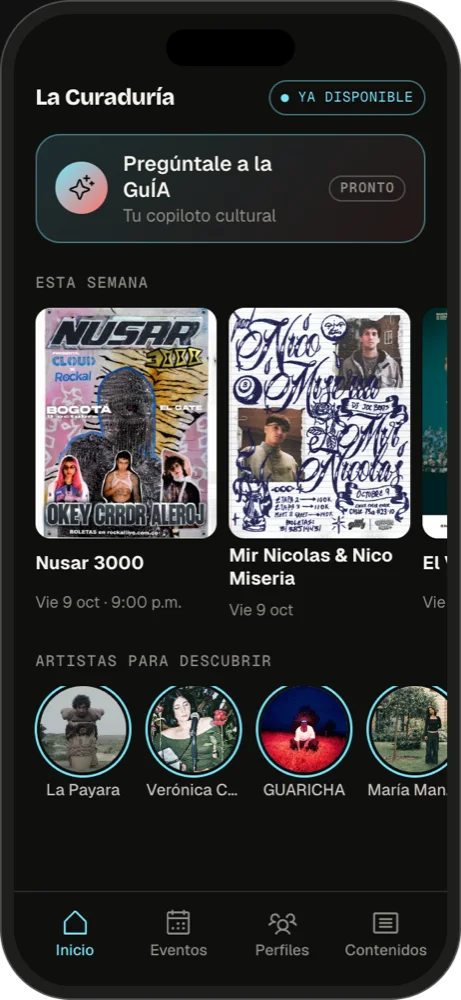
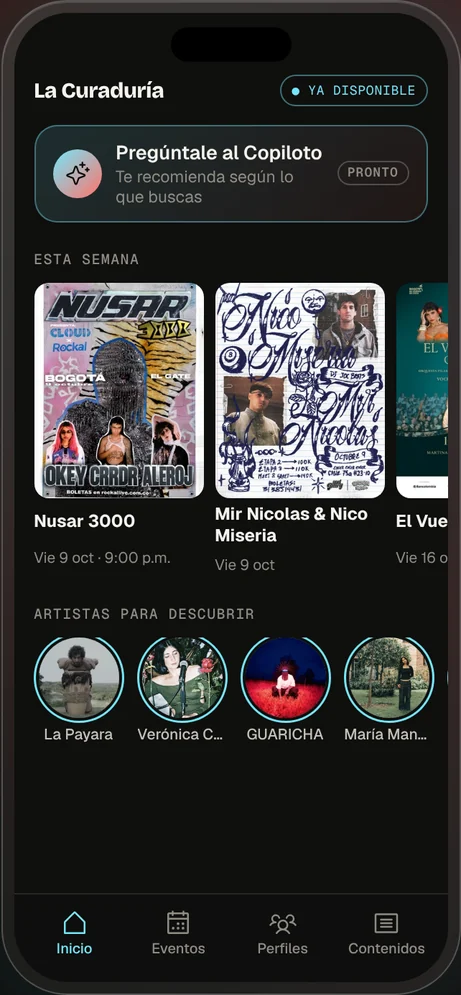
El copiloto se llama Copiloto, no GuÍA: textos, demo y capturas
Claude-Session: https://claude.ai/code/session_013ns4ecBsLFtjFuJTgQGV7z

diff --git a/index.html b/index.html
@@ -30,7 +30,7 @@
 <meta name="lc-ga4" content="">
 <meta name="lc-ads" content="">
 <script src="/estilo/medicion.js?v=20261010a"></script>
-<script src="/estilo/demo.js?v=20261010a" defer></script>
+<script src="/estilo/demo.js?v=20261010b" defer></script>
 <script src="/estilo/landing.js?v=20261010e" defer></script>
 <style>
 *{margin:0;padding:0;box-sizing:border-box;-webkit-tap-highlight-color:transparent;}
@@ -450,7 +450,7 @@ footer.site-footer{}
           <span class="t-escena-rotulo" style="--c: var(--p-coral);">La Terminal · para quienes hacen la cultura</span>
         </button>
         <button type="button" class="t-escena-tel" onclick="navTo('la-guia')" aria-label="La Guía: ver la página para quienes viven la cultura">
-          <img src="/img/escena/guia.webp" alt="La Guía en el teléfono: eventos de la semana y artistas para descubrir" width="461" height="1000">
+          <img src="/img/escena/guia.webp?v=2" alt="La Guía en el teléfono: eventos de la semana y artistas para descubrir" width="461" height="1000">
           <span class="t-escena-rotulo" style="--c: var(--p-cyan);">La Guía · para quienes viven la cultura</span>
         </button>
       </div>
@@ -503,13 +503,13 @@ footer.site-footer{}
         <p class="t-etiqueta">Producto 1 · La Guía</p>
         <h2 class="t-h2">Encuentra algo que valga la pena vivir.</h2>
         <p class="t-lead">Eventos, artistas, espacios y contenidos de la escena en un solo lugar, para explorar más allá de lo que aparece en tu feed.</p>
-        <ul class="t-producto-lista"><li><span class="t-estado-chip" data-estado="ya">Ya</span>Cartelera y mapa de la ciudad</li><li><span class="t-estado-chip" data-estado="ya">Ya</span>Directorio de artistas, espacios y colectivos</li><li><span class="t-estado-chip" data-estado="ya">Ya</span>Contenidos y reseñas</li><li><span class="t-estado-chip" data-estado="ya">Ya</span>Tu ruta cultural: guarda lo que te gusta</li><li><span class="t-estado-chip" data-estado="pronto">Pronto</span>La GuÍA, una copiloto que recomienda</li></ul>
+        <ul class="t-producto-lista"><li><span class="t-estado-chip" data-estado="ya">Ya</span>Cartelera y mapa de la ciudad</li><li><span class="t-estado-chip" data-estado="ya">Ya</span>Directorio de artistas, espacios y colectivos</li><li><span class="t-estado-chip" data-estado="ya">Ya</span>Contenidos y reseñas</li><li><span class="t-estado-chip" data-estado="ya">Ya</span>Tu ruta cultural: guarda lo que te gusta</li><li><span class="t-estado-chip" data-estado="pronto">Pronto</span>El Copiloto, que te recomienda</li></ul>
         <div class="t-ctas">
           <button type="button" class="t-btn t-btn-pri" onclick="navTo('la-guia')">Conoce La Guía <svg aria-hidden="true" focusable="false" xmlns="http://www.w3.org/2000/svg" viewBox="0 0 256 256" fill="currentColor"><path d="M221.66,133.66l-72,72a8,8,0,0,1-11.32-11.32L196.69,136H40a8,8,0,0,1,0-16H196.69L138.34,61.66a8,8,0,0,1,11.32-11.32l72,72A8,8,0,0,1,221.66,133.66Z"/></svg></button>
           <a data-evento="cta_explorar" class="t-btn t-btn-sec" href="https://lacuraduria.net" target="_blank" rel="noopener">Explorar la guía</a>
         </div>
       </div>
-      <button type="button" class="t-producto-img t-producto-tel t-rv t-rv-2" onclick="navTo('la-guia')" aria-label="Ver La Guía"><img src="/img/escena/guia.webp" alt="" width="461" height="1000" loading="lazy"></button>
+      <button type="button" class="t-producto-img t-producto-tel t-rv t-rv-2" onclick="navTo('la-guia')" aria-label="Ver La Guía"><img src="/img/escena/guia.webp?v=2" alt="" width="461" height="1000" loading="lazy"></button>
     </div>
   </section>
 
@@ -539,7 +539,7 @@ footer.site-footer{}
         <div class="t-estados-col" style="--c: var(--p-cyan);">
           <h3 class="t-h3">La Guía</h3>
           <p class="t-sus-sub">Disponible ahora</p><ul class="t-estados-lista"><li><span class="t-estado-chip" data-estado="ya">Ya</span><a href="https://lacuraduria.net/eventos" target="_blank" rel="noopener">Cartelera de eventos</a></li><li><span class="t-estado-chip" data-estado="ya">Ya</span><a href="https://lacuraduria.net/perfiles" target="_blank" rel="noopener">Directorio de artistas, espacios, colectivos y medios</a></li><li><span class="t-estado-chip" data-estado="ya">Ya</span><a href="https://lacuraduria.net/contenidos" target="_blank" rel="noopener">Contenidos y reseñas</a></li><li><span class="t-estado-chip" data-estado="ya">Ya</span><a href="https://lacuraduria.net/" target="_blank" rel="noopener">Recomendaciones editoriales de La Curaduría</a></li><li><span class="t-estado-chip" data-estado="ya">Ya</span><a href="https://lacuraduria.net/radio" target="_blank" rel="noopener">Radio en línea</a></li><li><span class="t-estado-chip" data-estado="ya">Ya</span>Seguir, guardar e interactuar</li><li><span class="t-estado-chip" data-estado="ya">Ya</span><a href="https://lacuraduria.net/perfiles" target="_blank" rel="noopener">Perfiles con enlaces, contacto, YouTube y SoundCloud</a></li><li><span class="t-estado-chip" data-estado="ya">Ya</span><a href="https://lacuraduria.net/publicar" target="_blank" rel="noopener">Publicar eventos, perfiles, contenidos y reseñas</a></li></ul>
-          <p class="t-sus-sub">Próximamente</p><ul class="t-estados-lista"><li><span class="t-estado-chip" data-estado="pronto">En construcción</span>Perfil de usuario tipo Letterboxd: tu historial y tus colecciones</li><li><span class="t-estado-chip" data-estado="pronto">Pronto</span>Copiloto cultural: la GuÍA te recomienda según lo que buscas</li><li><span class="t-estado-chip" data-estado="pronto">Pronto</span>Mapa cultural</li><li><span class="t-estado-chip" data-estado="pronto">Pronto</span>Mensajes directos</li><li><span class="t-estado-chip" data-estado="pronto">Pronto</span>Marketplace y compra de entradas</li></ul>
+          <p class="t-sus-sub">Próximamente</p><ul class="t-estados-lista"><li><span class="t-estado-chip" data-estado="pronto">En construcción</span>Perfil de usuario tipo Letterboxd: tu historial y tus colecciones</li><li><span class="t-estado-chip" data-estado="pronto">Pronto</span>Copiloto cultural: te recomienda según lo que buscas</li><li><span class="t-estado-chip" data-estado="pronto">Pronto</span>Mapa cultural</li><li><span class="t-estado-chip" data-estado="pronto">Pronto</span>Mensajes directos</li><li><span class="t-estado-chip" data-estado="pronto">Pronto</span>Marketplace y compra de entradas</li></ul>
         </div>
         <div class="t-estados-col" style="--c: var(--p-coral);">
           <h3 class="t-h3">La Terminal</h3>
@@ -679,7 +679,7 @@ footer.site-footer{}
     </div>
   </section>
 
-  <!-- La GuÍA como sección propia y los planes viejos se quitaron el 9 oct; están en el commit a07e1f4. -->
+  <!-- El Copiloto como sección propia y los planes viejos se quitaron el 9 oct; están en el commit a07e1f4. -->
 <footer class="site-footer" style="background:var(--lc-bg-raised);border-top:1px solid var(--bord);margin-top:0;">
   <div class="sf-inner">
     <div class="sf-top">
@@ -762,7 +762,7 @@ footer.site-footer{}
       <div class="t-guia-tel" data-guia-tel>
       <div class="t-guia-conmutador" role="group" aria-label="Qué ver en el teléfono">
         <button type="button" data-guia-ver="vivo" aria-pressed="true">lacuraduria.net</button>
-        <button type="button" data-guia-ver="guia" aria-pressed="false">Copiloto GuÍA · pronto</button>
+        <button type="button" data-guia-ver="guia" aria-pressed="false">Copiloto · pronto</button>
       </div>
       <!-- El teléfono con lacuraduria.net: capturas reales del sitio (10 oct), con scroll y pestañas.
            El sitio no deja mostrarse dentro de otra página, por eso no es un iframe. -->
@@ -781,7 +781,7 @@ footer.site-footer{}
         <button type="button" data-vivo-ir="inicio" aria-pressed="true">Inicio</button><button type="button" data-vivo-ir="eventos" aria-pressed="false">Eventos</button><button type="button" data-vivo-ir="perfiles" aria-pressed="false">Páginas</button><button type="button" data-vivo-ir="contenidos" aria-pressed="false">Publicaciones</button>
       </div>
       <p class="t-vivo-pie" data-vivo-pie>Así se ve hoy lacuraduria.net. Toca la pantalla para abrirla de verdad.</p>
-      <div class="t-demo t-demo-solo" id="demo-guia" data-demo role="region" aria-label="Demostración de la GuÍA en el teléfono" hidden>
+      <div class="t-demo t-demo-solo" id="demo-guia" data-demo role="region" aria-label="Demostración del Copiloto en el teléfono" hidden>
         <!-- El teléfono: La Guía -->
         <div class="t-movil">
           <div class="t-movil-pantalla">
@@ -789,7 +789,7 @@ footer.site-footer{}
 
             <section class="t-mv" data-movil="inicio">
               <div class="t-mv-scroll">
-                <button type="button" class="t-mv-preguntar" data-abrir-guia><span class="t-mv-avatar"><svg aria-hidden="true" focusable="false" xmlns="http://www.w3.org/2000/svg" viewBox="0 0 256 256" fill="currentColor"><path d="M197.58,129.06,146,110l-19-51.62a15.92,15.92,0,0,0-29.88,0L78,110l-51.62,19a15.92,15.92,0,0,0,0,29.88L78,178l19,51.62a15.92,15.92,0,0,0,29.88,0L146,178l51.62-19a15.92,15.92,0,0,0,0-29.88ZM137,164.22a8,8,0,0,0-4.74,4.74L112,223.85,91.78,169A8,8,0,0,0,87,164.22L32.15,144,87,123.78A8,8,0,0,0,91.78,119L112,64.15,132.22,119a8,8,0,0,0,4.74,4.74L191.85,144ZM144,40a8,8,0,0,1,8-8h16V16a8,8,0,0,1,16,0V32h16a8,8,0,0,1,0,16H184V64a8,8,0,0,1-16,0V48H152A8,8,0,0,1,144,40ZM248,88a8,8,0,0,1-8,8h-8v8a8,8,0,0,1-16,0V96h-8a8,8,0,0,1,0-16h8V72a8,8,0,0,1,16,0v8h8A8,8,0,0,1,248,88Z"/></svg></span><span>Pregúntale a la GuÍA<small>Tu copiloto cultural</small></span><em>Pronto</em></button>
+                <button type="button" class="t-mv-preguntar" data-abrir-guia><span class="t-mv-avatar"><svg aria-hidden="true" focusable="false" xmlns="http://www.w3.org/2000/svg" viewBox="0 0 256 256" fill="currentColor"><path d="M197.58,129.06,146,110l-19-51.62a15.92,15.92,0,0,0-29.88,0L78,110l-51.62,19a15.92,15.92,0,0,0,0,29.88L78,178l19,51.62a15.92,15.92,0,0,0,29.88,0L146,178l51.62-19a15.92,15.92,0,0,0,0-29.88ZM137,164.22a8,8,0,0,0-4.74,4.74L112,223.85,91.78,169A8,8,0,0,0,87,164.22L32.15,144,87,123.78A8,8,0,0,0,91.78,119L112,64.15,132.22,119a8,8,0,0,0,4.74,4.74L191.85,144ZM144,40a8,8,0,0,1,8-8h16V16a8,8,0,0,1,16,0V32h16a8,8,0,0,1,0,16H184V64a8,8,0,0,1-16,0V48H152A8,8,0,0,1,144,40ZM248,88a8,8,0,0,1-8,8h-8v8a8,8,0,0,1-16,0V96h-8a8,8,0,0,1,0-16h8V72a8,8,0,0,1,16,0v8h8A8,8,0,0,1,248,88Z"/></svg></span><span>Pregúntale al Copiloto<small>Te recomienda según lo que buscas</small></span><em>Pronto</em></button>
                 <h5 class="t-mv-h">Esta semana</h5>
                 <div class="t-mv-carrusel" data-mv-semana></div>
                 <h5 class="t-mv-h">Artistas para descubrir</h5>
@@ -822,7 +822,7 @@ footer.site-footer{}
             </section>
 
             <section class="t-mv" data-movil="guia" hidden>
-              <div class="t-mv-cab"><button type="button" class="t-mv-volver" data-mv-ir="inicio" aria-label="Volver al inicio"><svg aria-hidden="true" focusable="false" xmlns="http://www.w3.org/2000/svg" viewBox="0 0 256 256" fill="currentColor"><path d="M165.66,202.34a8,8,0,0,1-11.32,11.32l-80-80a8,8,0,0,1,0-11.32l80-80a8,8,0,0,1,11.32,11.32L91.31,128Z"/></svg></button><span class="t-mv-avatar"><svg aria-hidden="true" focusable="false" xmlns="http://www.w3.org/2000/svg" viewBox="0 0 256 256" fill="currentColor"><path d="M197.58,129.06,146,110l-19-51.62a15.92,15.92,0,0,0-29.88,0L78,110l-51.62,19a15.92,15.92,0,0,0,0,29.88L78,178l19,51.62a15.92,15.92,0,0,0,29.88,0L146,178l51.62-19a15.92,15.92,0,0,0,0-29.88ZM137,164.22a8,8,0,0,0-4.74,4.74L112,223.85,91.78,169A8,8,0,0,0,87,164.22L32.15,144,87,123.78A8,8,0,0,0,91.78,119L112,64.15,132.22,119a8,8,0,0,0,4.74,4.74L191.85,144ZM144,40a8,8,0,0,1,8-8h16V16a8,8,0,0,1,16,0V32h16a8,8,0,0,1,0,16H184V64a8,8,0,0,1-16,0V48H152A8,8,0,0,1,144,40ZM248,88a8,8,0,0,1-8,8h-8v8a8,8,0,0,1-16,0V96h-8a8,8,0,0,1,0-16h8V72a8,8,0,0,1,16,0v8h8A8,8,0,0,1,248,88Z"/></svg></span><div><b>GuÍA</b><small>Tu copiloto cultural</small></div></div>
+              <div class="t-mv-cab"><button type="button" class="t-mv-volver" data-mv-ir="inicio" aria-label="Volver al inicio"><svg aria-hidden="true" focusable="false" xmlns="http://www.w3.org/2000/svg" viewBox="0 0 256 256" fill="currentColor"><path d="M165.66,202.34a8,8,0,0,1-11.32,11.32l-80-80a8,8,0,0,1,0-11.32l80-80a8,8,0,0,1,11.32,11.32L91.31,128Z"/></svg></button><span class="t-mv-avatar"><svg aria-hidden="true" focusable="false" xmlns="http://www.w3.org/2000/svg" viewBox="0 0 256 256" fill="currentColor"><path d="M197.58,129.06,146,110l-19-51.62a15.92,15.92,0,0,0-29.88,0L78,110l-51.62,19a15.92,15.92,0,0,0,0,29.88L78,178l19,51.62a15.92,15.92,0,0,0,29.88,0L146,178l51.62-19a15.92,15.92,0,0,0,0-29.88ZM137,164.22a8,8,0,0,0-4.74,4.74L112,223.85,91.78,169A8,8,0,0,0,87,164.22L32.15,144,87,123.78A8,8,0,0,0,91.78,119L112,64.15,132.22,119a8,8,0,0,0,4.74,4.74L191.85,144ZM144,40a8,8,0,0,1,8-8h16V16a8,8,0,0,1,16,0V32h16a8,8,0,0,1,0,16H184V64a8,8,0,0,1-16,0V48H152A8,8,0,0,1,144,40ZM248,88a8,8,0,0,1-8,8h-8v8a8,8,0,0,1-16,0V96h-8a8,8,0,0,1,0-16h8V72a8,8,0,0,1,16,0v8h8A8,8,0,0,1,248,88Z"/></svg></span><div><b>Copiloto</b><small>De La Curaduría</small></div></div>
               <div class="t-mv-msgs" data-msgs aria-live="polite">
                 <p class="t-mv-burbuja">Hola. Cuéntame qué buscas y te recomiendo eventos, artistas y contenidos de la escena.</p>
               </div>
@@ -831,7 +831,7 @@ footer.site-footer{}
                 <button type="button" data-preg="previa">¿Dónde previar antes?</button>
                 <button type="button" data-preg="artistas">Recomiéndame artistas</button>
               </div>
-              <form class="t-mv-form" data-form><label class="t-mv-campo"><span class="t-oculto">Pregúntale a la GuÍA</span><input data-pregunta type="text" placeholder="Pregúntale a la GuÍA" autocomplete="off" maxlength="80"></label><button type="submit" aria-label="Enviar"><svg aria-hidden="true" focusable="false" xmlns="http://www.w3.org/2000/svg" viewBox="0 0 256 256" fill="currentColor"><path d="M231.87,114l-168-95.89A16,16,0,0,0,40.92,37.34L71.55,128,40.92,218.67A16,16,0,0,0,56,240a16.15,16.15,0,0,0,7.93-2.1l167.92-96.05a16,16,0,0,0,.05-27.89ZM56,224a.56.56,0,0,0,0-.12L85.74,136H144a8,8,0,0,0,0-16H85.74L56.06,32.16A.46.46,0,0,0,56,32l168,95.83Z"/></svg></button></form>
+              <form class="t-mv-form" data-form><label class="t-mv-campo"><span class="t-oculto">Pregúntale al Copiloto</span><input data-pregunta type="text" placeholder="Pregúntale al Copiloto" autocomplete="off" maxlength="80"></label><button type="submit" aria-label="Enviar"><svg aria-hidden="true" focusable="false" xmlns="http://www.w3.org/2000/svg" viewBox="0 0 256 256" fill="currentColor"><path d="M231.87,114l-168-95.89A16,16,0,0,0,40.92,37.34L71.55,128,40.92,218.67A16,16,0,0,0,56,240a16.15,16.15,0,0,0,7.93-2.1l167.92-96.05a16,16,0,0,0,.05-27.89ZM56,224a.56.56,0,0,0,0-.12L85.74,136H144a8,8,0,0,0,0-16H85.74L56.06,32.16A.46.46,0,0,0,56,32l168,95.83Z"/></svg></button></form>
             </section>
 
             <section class="t-mv t-mv-perfil" data-movil="perfil" hidden></section>
@@ -907,9 +907,9 @@ footer.site-footer{}
         <figure class="t-func-img"><img src="/img/producto/contenidos.jpg" alt="" loading="lazy" width="1400" height="498"></figure>
       </article>
       <article class="t-func t-rv">
-        <div class="t-func-texto"><span class="t-estado-chip" data-estado="pronto">Próximamente</span><h3>Pregúntale a la GuÍA</h3><p>Una copiloto que te recomienda eventos, artistas y contenidos según lo que te gusta. Ya puedes probar una muestra en el teléfono de arriba.</p>
-          <button type="button" class="t-btn t-btn-sec" onclick="if (window.lcGuiaVer) window.lcGuiaVer('guia'); document.querySelector('[data-guia-tel]').scrollIntoView({behavior:'smooth', block:'center'});">Probar la GuÍA</button></div>
-        <figure class="t-func-img t-func-tel"><img src="/img/escena/guia.webp" alt="" loading="lazy" width="461" height="1000"></figure>
+        <div class="t-func-texto"><span class="t-estado-chip" data-estado="pronto">Próximamente</span><h3>Pregúntale al Copiloto</h3><p>Un copiloto que te recomienda eventos, artistas y contenidos según lo que te gusta. Ya puedes probar una muestra en el teléfono de arriba.</p>
+          <button type="button" class="t-btn t-btn-sec" onclick="if (window.lcGuiaVer) window.lcGuiaVer('guia'); document.querySelector('[data-guia-tel]').scrollIntoView({behavior:'smooth', block:'center'});">Probar el Copiloto</button></div>
+        <figure class="t-func-img t-func-tel"><img src="/img/escena/copiloto.webp?v=1" alt="El Copiloto recomienda una fiesta de house y un lugar para previar" loading="lazy" width="461" height="995"></figure>
       </article>
       </div>
     </div>
@@ -923,7 +923,7 @@ footer.site-footer{}
         <div class="t-estados-col" style="--c: var(--p-cyan);">
           <h3 class="t-h3">La Guía</h3>
           <p class="t-sus-sub">Disponible ahora</p><ul class="t-estados-lista"><li><span class="t-estado-chip" data-estado="ya">Ya</span><a href="https://lacuraduria.net/eventos" target="_blank" rel="noopener">Cartelera de eventos</a></li><li><span class="t-estado-chip" data-estado="ya">Ya</span><a href="https://lacuraduria.net/perfiles" target="_blank" rel="noopener">Directorio de artistas, espacios, colectivos y medios</a></li><li><span class="t-estado-chip" data-estado="ya">Ya</span><a href="https://lacuraduria.net/contenidos" target="_blank" rel="noopener">Contenidos y reseñas</a></li><li><span class="t-estado-chip" data-estado="ya">Ya</span><a href="https://lacuraduria.net/" target="_blank" rel="noopener">Recomendaciones editoriales de La Curaduría</a></li><li><span class="t-estado-chip" data-estado="ya">Ya</span><a href="https://lacuraduria.net/radio" target="_blank" rel="noopener">Radio en línea</a></li><li><span class="t-estado-chip" data-estado="ya">Ya</span>Seguir, guardar e interactuar</li><li><span class="t-estado-chip" data-estado="ya">Ya</span><a href="https://lacuraduria.net/perfiles" target="_blank" rel="noopener">Perfiles con enlaces, contacto, YouTube y SoundCloud</a></li><li><span class="t-estado-chip" data-estado="ya">Ya</span><a href="https://lacuraduria.net/publicar" target="_blank" rel="noopener">Publicar eventos, perfiles, contenidos y reseñas</a></li></ul>
-          <p class="t-sus-sub">Próximamente</p><ul class="t-estados-lista"><li><span class="t-estado-chip" data-estado="pronto">En construcción</span>Perfil de usuario tipo Letterboxd: tu historial y tus colecciones</li><li><span class="t-estado-chip" data-estado="pronto">Pronto</span>Copiloto cultural: la GuÍA te recomienda según lo que buscas</li><li><span class="t-estado-chip" data-estado="pronto">Pronto</span>Mapa cultural</li><li><span class="t-estado-chip" data-estado="pronto">Pronto</span>Mensajes directos</li><li><span class="t-estado-chip" data-estado="pronto">Pronto</span>Marketplace y compra de entradas</li></ul>
+          <p class="t-sus-sub">Próximamente</p><ul class="t-estados-lista"><li><span class="t-estado-chip" data-estado="pronto">En construcción</span>Perfil de usuario tipo Letterboxd: tu historial y tus colecciones</li><li><span class="t-estado-chip" data-estado="pronto">Pronto</span>Copiloto cultural: te recomienda según lo que buscas</li><li><span class="t-estado-chip" data-estado="pronto">Pronto</span>Mapa cultural</li><li><span class="t-estado-chip" data-estado="pronto">Pronto</span>Mensajes directos</li><li><span class="t-estado-chip" data-estado="pronto">Pronto</span>Marketplace y compra de entradas</li></ul>
         </div>
       </div>
     </div>
@@ -1640,7 +1640,7 @@ window.addEventListener('load', function(){
 
             <section class="t-mv" data-movil="inicio">
               <div class="t-mv-scroll">
-                <button type="button" class="t-mv-preguntar" data-abrir-guia><span class="t-mv-avatar"><svg aria-hidden="true" focusable="false" xmlns="http://www.w3.org/2000/svg" viewBox="0 0 256 256" fill="currentColor"><path d="M197.58,129.06,146,110l-19-51.62a15.92,15.92,0,0,0-29.88,0L78,110l-51.62,19a15.92,15.92,0,0,0,0,29.88L78,178l19,51.62a15.92,15.92,0,0,0,29.88,0L146,178l51.62-19a15.92,15.92,0,0,0,0-29.88ZM137,164.22a8,8,0,0,0-4.74,4.74L112,223.85,91.78,169A8,8,0,0,0,87,164.22L32.15,144,87,123.78A8,8,0,0,0,91.78,119L112,64.15,132.22,119a8,8,0,0,0,4.74,4.74L191.85,144ZM144,40a8,8,0,0,1,8-8h16V16a8,8,0,0,1,16,0V32h16a8,8,0,0,1,0,16H184V64a8,8,0,0,1-16,0V48H152A8,8,0,0,1,144,40ZM248,88a8,8,0,0,1-8,8h-8v8a8,8,0,0,1-16,0V96h-8a8,8,0,0,1,0-16h8V72a8,8,0,0,1,16,0v8h8A8,8,0,0,1,248,88Z"/></svg></span><span>Pregúntale a la GuÍA<small>Tu copiloto cultural</small></span><em>Pronto</em></button>
+                <button type="button" class="t-mv-preguntar" data-abrir-guia><span class="t-mv-avatar"><svg aria-hidden="true" focusable="false" xmlns="http://www.w3.org/2000/svg" viewBox="0 0 256 256" fill="currentColor"><path d="M197.58,129.06,146,110l-19-51.62a15.92,15.92,0,0,0-29.88,0L78,110l-51.62,19a15.92,15.92,0,0,0,0,29.88L78,178l19,51.62a15.92,15.92,0,0,0,29.88,0L146,178l51.62-19a15.92,15.92,0,0,0,0-29.88ZM137,164.22a8,8,0,0,0-4.74,4.74L112,223.85,91.78,169A8,8,0,0,0,87,164.22L32.15,144,87,123.78A8,8,0,0,0,91.78,119L112,64.15,132.22,119a8,8,0,0,0,4.74,4.74L191.85,144ZM144,40a8,8,0,0,1,8-8h16V16a8,8,0,0,1,16,0V32h16a8,8,0,0,1,0,16H184V64a8,8,0,0,1-16,0V48H152A8,8,0,0,1,144,40ZM248,88a8,8,0,0,1-8,8h-8v8a8,8,0,0,1-16,0V96h-8a8,8,0,0,1,0-16h8V72a8,8,0,0,1,16,0v8h8A8,8,0,0,1,248,88Z"/></svg></span><span>Pregúntale al Copiloto<small>Te recomienda según lo que buscas</small></span><em>Pronto</em></button>
                 <h5 class="t-mv-h">Esta semana</h5>
                 <div class="t-mv-carrusel" data-mv-semana></div>
                 <h5 class="t-mv-h">Artistas para descubrir</h5>
@@ -1673,7 +1673,7 @@ window.addEventListener('load', function(){
             </section>
 
             <section class="t-mv" data-movil="guia" hidden>
-              <div class="t-mv-cab"><button type="button" class="t-mv-volver" data-mv-ir="inicio" aria-label="Volver al inicio"><svg aria-hidden="true" focusable="false" xmlns="http://www.w3.org/2000/svg" viewBox="0 0 256 256" fill="currentColor"><path d="M165.66,202.34a8,8,0,0,1-11.32,11.32l-80-80a8,8,0,0,1,0-11.32l80-80a8,8,0,0,1,11.32,11.32L91.31,128Z"/></svg></button><span class="t-mv-avatar"><svg aria-hidden="true" focusable="false" xmlns="http://www.w3.org/2000/svg" viewBox="0 0 256 256" fill="currentColor"><path d="M197.58,129.06,146,110l-19-51.62a15.92,15.92,0,0,0-29.88,0L78,110l-51.62,19a15.92,15.92,0,0,0,0,29.88L78,178l19,51.62a15.92,15.92,0,0,0,29.88,0L146,178l51.62-19a15.92,15.92,0,0,0,0-29.88ZM137,164.22a8,8,0,0,0-4.74,4.74L112,223.85,91.78,169A8,8,0,0,0,87,164.22L32.15,144,87,123.78A8,8,0,0,0,91.78,119L112,64.15,132.22,119a8,8,0,0,0,4.74,4.74L191.85,144ZM144,40a8,8,0,0,1,8-8h16V16a8,8,0,0,1,16,0V32h16a8,8,0,0,1,0,16H184V64a8,8,0,0,1-16,0V48H152A8,8,0,0,1,144,40ZM248,88a8,8,0,0,1-8,8h-8v8a8,8,0,0,1-16,0V96h-8a8,8,0,0,1,0-16h8V72a8,8,0,0,1,16,0v8h8A8,8,0,0,1,248,88Z"/></svg></span><div><b>GuÍA</b><small>Tu copiloto cultural</small></div></div>
+              <div class="t-mv-cab"><button type="button" class="t-mv-volver" data-mv-ir="inicio" aria-label="Volver al inicio"><svg aria-hidden="true" focusable="false" xmlns="http://www.w3.org/2000/svg" viewBox="0 0 256 256" fill="currentColor"><path d="M165.66,202.34a8,8,0,0,1-11.32,11.32l-80-80a8,8,0,0,1,0-11.32l80-80a8,8,0,0,1,11.32,11.32L91.31,128Z"/></svg></button><span class="t-mv-avatar"><svg aria-hidden="true" focusable="false" xmlns="http://www.w3.org/2000/svg" viewBox="0 0 256 256" fill="currentColor"><path d="M197.58,129.06,146,110l-19-51.62a15.92,15.92,0,0,0-29.88,0L78,110l-51.62,19a15.92,15.92,0,0,0,0,29.88L78,178l19,51.62a15.92,15.92,0,0,0,29.88,0L146,178l51.62-19a15.92,15.92,0,0,0,0-29.88ZM137,164.22a8,8,0,0,0-4.74,4.74L112,223.85,91.78,169A8,8,0,0,0,87,164.22L32.15,144,87,123.78A8,8,0,0,0,91.78,119L112,64.15,132.22,119a8,8,0,0,0,4.74,4.74L191.85,144ZM144,40a8,8,0,0,1,8-8h16V16a8,8,0,0,1,16,0V32h16a8,8,0,0,1,0,16H184V64a8,8,0,0,1-16,0V48H152A8,8,0,0,1,144,40ZM248,88a8,8,0,0,1-8,8h-8v8a8,8,0,0,1-16,0V96h-8a8,8,0,0,1,0-16h8V72a8,8,0,0,1,16,0v8h8A8,8,0,0,1,248,88Z"/></svg></span><div><b>Copiloto</b><small>De La Curaduría</small></div></div>
               <div class="t-mv-msgs" data-msgs aria-live="polite">
                 <p class="t-mv-burbuja">Hola. Cuéntame qué buscas y te recomiendo eventos, artistas y contenidos de la escena.</p>
               </div>
@@ -1682,7 +1682,7 @@ window.addEventListener('load', function(){
                 <button type="button" data-preg="artistas">Recomiéndame artistas</button>
                 <button type="button" data-preg="escuchar">Algo para escuchar</button>
               </div>
-              <form class="t-mv-form" data-form><label class="t-mv-campo"><span class="t-oculto">Pregúntale a la GuÍA</span><input data-pregunta type="text" placeholder="Pregúntale a la GuÍA" autocomplete="off" maxlength="80"></label><button type="submit" aria-label="Enviar"><svg aria-hidden="true" focusable="false" xmlns="http://www.w3.org/2000/svg" viewBox="0 0 256 256" fill="currentColor"><path d="M231.87,114l-168-95.89A16,16,0,0,0,40.92,37.34L71.55,128,40.92,218.67A16,16,0,0,0,56,240a16.15,16.15,0,0,0,7.93-2.1l167.92-96.05a16,16,0,0,0,.05-27.89ZM56,224a.56.56,0,0,0,0-.12L85.74,136H144a8,8,0,0,0,0-16H85.74L56.06,32.16A.46.46,0,0,0,56,32l168,95.83Z"/></svg></button></form>
+              <form class="t-mv-form" data-form><label class="t-mv-campo"><span class="t-oculto">Pregúntale al Copiloto</span><input data-pregunta type="text" placeholder="Pregúntale al Copiloto" autocomplete="off" maxlength="80"></label><button type="submit" aria-label="Enviar"><svg aria-hidden="true" focusable="false" xmlns="http://www.w3.org/2000/svg" viewBox="0 0 256 256" fill="currentColor"><path d="M231.87,114l-168-95.89A16,16,0,0,0,40.92,37.34L71.55,128,40.92,218.67A16,16,0,0,0,56,240a16.15,16.15,0,0,0,7.93-2.1l167.92-96.05a16,16,0,0,0,.05-27.89ZM56,224a.56.56,0,0,0,0-.12L85.74,136H144a8,8,0,0,0,0-16H85.74L56.06,32.16A.46.46,0,0,0,56,32l168,95.83Z"/></svg></button></form>
             </section>
 
             <section class="t-mv t-mv-perfil" data-movil="perfil" hidden></section>

diff --git a/estilo/demo.js b/estilo/demo.js
@@ -1,6 +1,6 @@
 /* La Curaduría · la demo del hero (v4, 8 oct 2026).
    Computador: La Terminal con sus diez módulos y su estado (ya, beta, próximamente).
-   Teléfono: La Guía (inicio, eventos, perfiles, contenidos), la GuÍA y el perfil de un artista.
+   Teléfono: La Guía (inicio, eventos, perfiles, contenidos), el Copiloto y el perfil de un artista.
    Las pantallas están conectadas, como en la plataforma:
    - publicar un evento o un contenido en La Terminal lo muestra La Guía;
    - la frase del perfil que se edita en La Terminal cambia el perfil del teléfono;
@@ -237,7 +237,7 @@ function montarDemo(demo) {
     { titulo: 'Klande Beats: el dancehall como memoria de la pista bogotana', tipo: 'Crónica sonora', img: 'co-klande.jpg', w: 457, h: 480, slug: 'klande-beats-el-dancehall-como-memoria-de-la-pista-bogotana-7bzkyc' },
     { titulo: 'Hard Trance Vol. 1 by paradoxx.raw', tipo: 'Audio', img: 'co-trance.jpg', w: 270, h: 480, slug: 'hard-trance-vol-1-by-paradoxx-raw-902ucb' }
   ];
-  // Qué de La Guía ya existe: todo menos la GuÍA (el chat).
+  // Qué de La Guía ya existe: todo menos el Copiloto (el chat).
   var ESTADO_MOVIL = { inicio: 'ya', eventos: 'ya', perfiles: 'ya', contenidos: 'ya', perfil: 'ya', guia: 'pronto' };
 
   var chip = $('[data-mv-chip]'), vistaPerfil = $('[data-movil="perfil"]'), perfilAbierto = null;
@@ -309,8 +309,8 @@ function montarDemo(demo) {
   })();
   pintarListas();
 
-  // La GuÍA (próximamente): responde a las sugerencias
-  // Lugares y planes de ejemplo para la conversación de la GuÍA (inventados: la GuÍA aún no existe).
+  // El Copiloto (próximamente): responde a las sugerencias
+  // Lugares y planes de ejemplo para la conversación de el Copiloto (inventados: el Copiloto aún no existe).
   var LUGARES = {
     tunda: { tipo: 'Fiesta · House', c: 'var(--p-coral)', ini: 'T', nombre: 'Tunda', detalle: 'Sáb · 10 p.m. · colectivo que cambia de locación' },
     discos: { tipo: 'Previa · Disquería y café', c: 'var(--p-green)', ini: 'DE', nombre: 'Discos del Espacio', detalle: 'Sáb · desde las 6 p.m. · discos, café, comida y house' }
@@ -349,7 +349,7 @@ function montarDemo(demo) {
     msgs.appendChild(el('p', 't-mv-burbuja t-mv-yo', texto)); bajar();
     var r = RESPUESTAS[clave];
     if (r) responder(r[0], r[1]);
-    else responder('En esta demo respondo a las sugerencias de abajo. Cuando salga, la GuÍA buscará en toda la cartelera, el directorio y los contenidos.');
+    else responder('En esta demo respondo a las sugerencias de abajo. Cuando salga, el Copiloto buscará en toda la cartelera, el directorio y los contenidos.');
   }
   function adivinar(t) {
     t = t.toLowerCase();
@@ -360,7 +360,7 @@ function montarDemo(demo) {
     if (/escuchar|música|musica|set|álbum|album|sonido/.test(t)) return 'escuchar';
     return null;
   }
-  // La conversación de ejemplo se escribe sola la primera vez que se abre la GuÍA.
+  // La conversación de ejemplo se escribe sola la primera vez que se abre el Copiloto.
   var guionHecho = false;
   function guion() {
     mostrarMovil('guia');

diff --git a/estilo/landing.css b/estilo/landing.css
@@ -392,7 +392,7 @@ html[data-tema] .guia-chip { font-family: var(--lc-font-body); font-size: 13px; 
 html[data-tema] .guia-chip:hover { color: var(--t-text); border-color: var(--t-text-3); }
 html[data-tema] .guia-dot { background: var(--t-text-3); }
 /* La conversación se escribe sola cuando el chat entra en pantalla:
-   cuenta en tres pasos lo que hace la GuÍA. */
+   cuenta en tres pasos lo que hace el Copiloto. */
 @media (prefers-reduced-motion: no-preference) {
   .t-chat .guia-msgs > * { opacity: 0; transform: translateY(10px); }
   .t-chat.t-dentro .guia-msgs > * { animation: t-sube .6s var(--t-ease) forwards; }
@@ -1045,7 +1045,7 @@ html[data-tema] .mprev-btn-pay { border-radius: 999px; }
 .t-guia-hero-texto .t-demo-leyenda { margin-top: 32px; }
 .t-demo.t-demo-solo { display: flex; justify-content: center; grid-template-columns: none; }
 .t-demo-solo .t-movil, .t-movil.t-vivo { grid-column: auto; grid-row: auto; margin: 0; max-width: 320px; width: 100%; justify-self: auto; }
-/* El teléfono de La Guía: lacuraduria.net en vivo, con la GuÍA (pronto) al lado */
+/* El teléfono de La Guía: lacuraduria.net en vivo, con el Copiloto (pronto) al lado */
 .t-guia-tel { display: flex; flex-direction: column; align-items: center; gap: 16px; }
 .t-guia-tel [hidden] { display: none !important; }
 .t-guia-conmutador { display: inline-flex; gap: 4px; padding: 4px; border-radius: 999px; border: 1px solid var(--g-borde-2); background: var(--g-luz), rgba(28, 28, 26, .6); -webkit-backdrop-filter: var(--g-blur); backdrop-filter: var(--g-blur); }
@@ -1121,7 +1121,7 @@ html[data-tema] .mprev-btn-pay { border-radius: 999px; }
 .t-pilar button:focus-visible { outline: 2px solid var(--p-cyan); outline-offset: 2px; }
 .t-fun-aliados { padding-inline: 0; }
 
-/* El campo de la GuÍA en el teléfono ya no lleva id */
+/* El campo de el Copiloto en el teléfono ya no lleva id */
 .t-mv-campo { flex: 1; min-width: 0; display: flex; }
 .t-mv-campo input { width: 100%; }
 

diff --git a/estilo/demo.css b/estilo/demo.css
@@ -1,6 +1,6 @@
 /* ============================================================
    La Curaduría · la demo del hero (8 oct 2026)
-   El computador muestra La Terminal y el teléfono la GuÍA y un perfil.
+   El computador muestra La Terminal y el teléfono el Copiloto y un perfil.
    Va después de landing.css y usa sus variables (--t-*, --g-*).
 
    El computador se dibuja en un lienzo fijo de 1000 × 640 que
@@ -433,7 +433,7 @@
   .t-demo-leyenda { margin-top: 24px; }
 }
 
-/* ── Teléfonos: primero la GuÍA; Pro se ve en pequeño, con sus funciones afuera ── */
+/* ── Teléfonos: primero el Copiloto; Pro se ve en pequeño, con sus funciones afuera ── */
 @media (max-width: 900px) {
   .t-demo { display: flex; flex-direction: column; align-items: stretch; gap: 14px; }
   .t-movil { order: -1; align-self: center; max-width: 300px; margin: 0 0 22px; }
@@ -465,7 +465,7 @@
   .t-ventana { background: var(--t-surf-2); }
 }
 
-/* Tarjetas de lugares en la conversación de la GuÍA (sin foto: iniciales en color) */
+/* Tarjetas de lugares en la conversación de el Copiloto (sin foto: iniciales en color) */
 .t-mv-ini { display: grid; place-items: center; width: 50px; height: 50px; flex: none; border-radius: 8px; font: 800 15px/1 var(--lc-font-display); color: #0C0C0B; background: var(--c); }
 .t-mv-lugar { cursor: default; }
 /* En La Guía, el teléfono del copiloto se ve como un chat: sin las pestañas de abajo */

diff --git a/estilo/LEEME.md b/estilo/LEEME.md
@@ -18,7 +18,7 @@
 >   - `api/webhook-mp.js` valida la firma, marca `confirmado_at` y manda el correo de confirmación una sola vez (con Brevo si existe `BREVO_API_KEY`, o con Resend si existe `RESEND_API_KEY`), y el aviso de compra al equipo (`CORREO_AVISOS`).
 >   - Lo compartido vive en `api/_lib/preventa.js`. La tabla real es `preventa_compradores`; `supabase-schema.sql` describe otra, vieja, que no existe.
 >   - La política de reembolso está en `#t-fun-reembolso`. Es una propuesta: hay que revisarla con abogado.
-> - **Teléfono de La Guía (10 oct):** el hero de `#pg-la-guia` muestra lacuraduria.net con capturas reales y largas (`img/producto/guia-*.jpg`, 390 px de ancho), que se recorren con scroll dentro del teléfono. La barra de abajo (`guia-barra.png`) y los botones Inicio · Eventos · Páginas · Publicaciones cambian de página; tocar la pantalla abre esa página en el sitio real. No es un iframe porque lacuraduria.net lo prohíbe (`frame-ancestors 'none'` y `X-Frame-Options: SAMEORIGIN`); si la webapp permite `frame-ancestors https://lacuraduria.com`, se puede volver a un iframe navegable. «GuÍA · pronto» muestra la demo inventada del chat. Para repetir las capturas: Chrome sin ventana a 390×844, pantalla por pantalla (cuatro de alto), ocultando lo fijo, y se unen.
+> - **Teléfono de La Guía (10 oct):** el hero de `#pg-la-guia` muestra lacuraduria.net con capturas reales y largas (`img/producto/guia-*.jpg`, 390 px de ancho), que se recorren con scroll dentro del teléfono. La barra de abajo (`guia-barra.png`) y los botones Inicio · Eventos · Páginas · Publicaciones cambian de página; tocar la pantalla abre esa página en el sitio real. No es un iframe porque lacuraduria.net lo prohíbe (`frame-ancestors 'none'` y `X-Frame-Options: SAMEORIGIN`); si la webapp permite `frame-ancestors https://lacuraduria.com`, se puede volver a un iframe navegable. «Copiloto · pronto» muestra la demo inventada del chat. Para repetir las capturas: Chrome sin ventana a 390×844, pantalla por pantalla (cuatro de alto), ocultando lo fijo, y se unen.
 > - **Planes en la portada (10 oct):** `#planes`, antes de la tienda: Gratis ($0) y Pro · Fundador ($200.000, 50 cupos) con insignia, betas antes que nadie, beneficios desde hoy y «parte del movimiento». «Reservar cupo» abre el mismo cobro (`prevSelectPlan('fundador')`); el modal se mueve al `body` para abrir desde cualquier pantalla.
 > - **`estilo/demo.js`** monta cada `[data-demo]`. La demo solo de teléfono no tiene el computador y lo que depende de él no corre.
 
@@ -27,7 +27,7 @@ Rediseño de la portada de la landing (`index.html`, pantalla `#pg-home`) hecho 
 | Archivo | Qué es |
 |---|---|
 | `estilo/landing.css` | Toda la dirección: paleta, tipografías, botones, barra y las ocho secciones. También redefine los valores de `ds/tokens.css`, para que las pantallas internas hereden lo mismo sin tocar su HTML. |
-| `estilo/demo.css`, `estilo/demo.js` | La demo del hero (8 oct): Pro en el computador y la GuÍA con un perfil en el teléfono, conectados. |
+| `estilo/demo.css`, `estilo/demo.js` | La demo del hero (8 oct): Pro en el computador y el Copiloto con un perfil en el teléfono, conectados. |
 | `img/demo/` | Fotos de artistas y flyers de eventos reales de lacuraduria.net que usa la demo. |
 | `estilo/landing.js` | Revelado al entrar en pantalla, logo de la barra y pestañas de «Para quién». No escucha el scroll. |
 | `fuentes/` | Bricolage Grotesque, Geist y Geist Mono (variables, subconjunto latino), alojadas aquí y no en Google Fonts. |
@@ -52,7 +52,7 @@ Rediseño de la portada de la landing (`index.html`, pantalla `#pg-home`) hecho 
      - **Beta, febrero de 2027:** gestor de contenidos, entrenamiento SEO, ENLACE academia, CRM.
      - **Próximamente:** convocatorias, perfil PRO, cobro, analítica.
      - Cada módulo abre una ventana con su estado, qué hace y algo para probar.
-   - **Teléfono, La Guía:** pestañas de inicio, eventos, perfiles y contenidos (ya disponibles), más la entrada a la GuÍA (próximamente) y el perfil del artista con su press kit.
+   - **Teléfono, La Guía:** pestañas de inicio, eventos, perfiles y contenidos (ya disponibles), más la entrada a el Copiloto (próximamente) y el perfil del artista con su press kit.
    - **Conexiones entre las pantallas:** publicar un evento o un contenido cambia La Guía; la frase del perfil se ve en el teléfono; pedir booking llega al CRM.
    - **Colores de estado:** cian para lo disponible (el segundo color de la marca), amarillo para las betas y gris para lo que viene.
    - **Datos reales** de lacuraduria.net en `img/demo/`, incluidos cuatro contenidos (`co-*.jpg`). En Analítica los datos son de ejemplo y la vista lo dice.
@@ -73,7 +73,7 @@ Desde el 8 oct la portada sigue la arquitectura «una plataforma, dos experienci
 8. **Tienda** (`#tienda`): solo la camiseta. Es la misma ficha que en Suscripción; `CAMISETA_STOCK` vale para las dos.
 9. **Cierre:** «¡Cambia el algoritmo por la curaduría!» y dos caminos: ¿Buscas cultura? / ¿Haces cultura?
 
-Ocultas con `hidden`: la GuÍA como sección propia y los planes viejos. «Para quién» (pestañas) y «Crea tu perfil» salieron; sus textos quedaron en las tarjetas de «Qué es».
+Ocultas con `hidden`: el Copiloto como sección propia y los planes viejos. «Para quién» (pestañas) y «Crea tu perfil» salieron; sus textos quedaron en las tarjetas de «Qué es».
 
 **Barra principal:** Explorar (lacuraduria.net), La Terminal (Suscripción), Tienda, Nosotros, Contacto e Ingresar.
 
